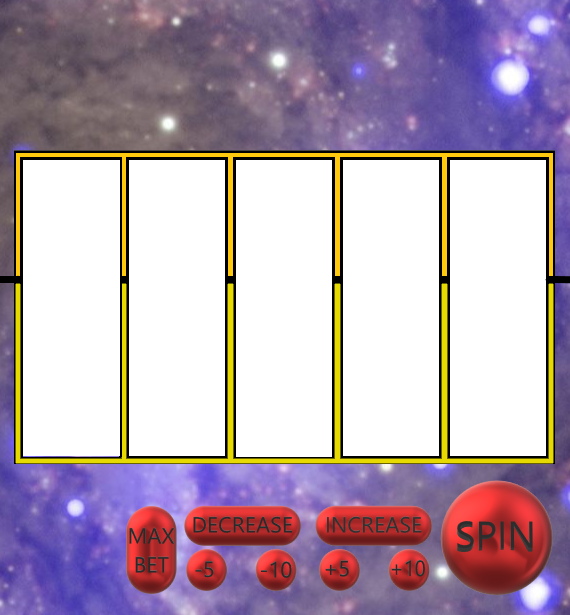
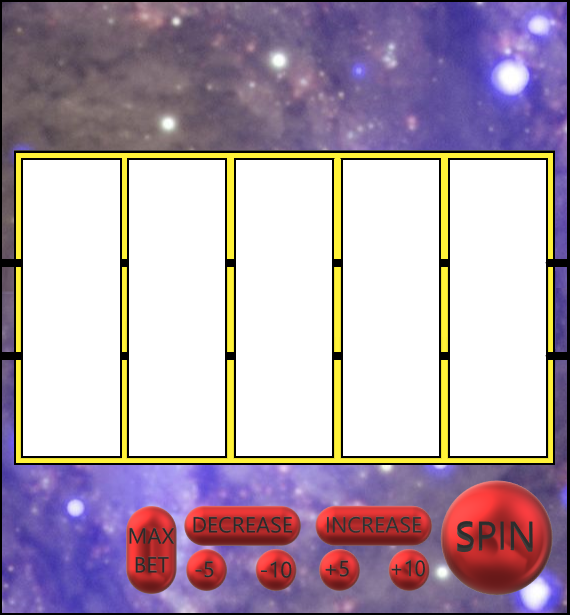
Added second pay line

Changed region(s): [[0.0, 0.0, 1.0, 1.0]]

diff --git a/MainWindow.xaml.cs b/MainWindow.xaml.cs
@@ -15,7 +15,6 @@ using System.Windows.Media.Imaging;
 using System.Windows.Navigation;
 using System.Windows.Shapes;
 using System.Xml.Schema;
-using Random = System.Random;
 
 namespace Slot_Machine
 {
@@ -31,10 +30,9 @@ namespace Slot_Machine
         }
 
         private int total = 0;
-
         public int userCredits = 1000;
-
         public int bet = 10;
+
         //Wheel 1
         public int wheel1val1 = 1;
         public int wheel1val2 = 2;
@@ -61,11 +59,16 @@ namespace Slot_Machine
         public int wheel5Val3 = 3;
         public int wheel5val4 = 4;
         //Win Values
-        public int wheel1;
-        public int wheel2;
-        public int wheel3;
-        public int wheel4;
-        public int wheel5;
+        public int LineOneValOne;
+        public int LineOneValTwo;
+        public int LineOneValThree;
+        public int LineOneValFour;
+        public int LineOneValFive;
+        public int LineTwoValOne;
+        public int LineTwoValTwo;
+        public int LineTwoValThree;
+        public int LineTwoValFour;
+        public int LineTwoValFive;
 
         Random random = new Random();
         public bool spinning = false;
@@ -146,36 +149,73 @@ namespace Slot_Machine
                         }
 
                         total = 0;
-                        wheel1 = wheel1val2;
-                        wheel2 = wheel2val2;
-                        wheel3 = wheel3val2;
-                        wheel4 = wheel4val2;
-                        wheel5 = wheel5val2;
+                        LineOneValOne = wheel1val2;
+                        LineOneValTwo = wheel2val2;
+                        LineOneValThree = wheel3val2;
+                        LineOneValFour = wheel4val2;
+                        LineOneValFive = wheel5val2;
+                        LineTwoValOne = wheel1Val3;
+                        LineTwoValTwo = wheel2Val3;
+                        LineTwoValThree = wheel3Val3;
+                        LineTwoValFour = wheel4Val3;
+                        LineTwoValFive = wheel5Val3;
                     }
 
-                    //Win Table
+                    //Win Table Line 1
                     //Single Win
-                    if (wheel1 == 1) total += 1;
+                    if (LineOneValOne == 1) total += 1;
                     //Double Win
-                    if (wheel1 == 1 && wheel2 == 1) total += 3;
-                    if (wheel1 == 2 && wheel2 == 2) total += 3;
-                    if (wheel1 == 3 && wheel2 == 3) total += 3;
-                    if (wheel1 == 4 && wheel2 == 4) total += 3;
+                    if (LineOneValOne == 1 && LineOneValTwo == 1) total += 3;
+                    if (LineOneValOne == 2 && LineOneValTwo == 2) total += 3;
+                    if (LineOneValOne == 3 && LineOneValTwo == 3) total += 3;
+                    if (LineOneValOne == 4 && LineOneValTwo == 4) total += 3;
                     //Triple Win
-                    if (wheel1 == 1 && wheel2 == 1 && wheel3 == 1) total += 7;
-                    if (wheel1 == 2 && wheel2 == 2 && wheel3 == 2) total += 7;
-                    if (wheel1 == 3 && wheel2 == 3 && wheel3 == 3) total += 7;
-                    if (wheel1 == 4 && wheel2 == 4 && wheel3 == 4) total += 7;
+                    if (LineOneValOne == 1 && LineOneValTwo == 1 && LineOneValThree == 1) total += 7;
+                    if (LineOneValOne == 2 && LineOneValTwo == 2 && LineOneValThree == 2) total += 7;
+                    if (LineOneValOne == 3 && LineOneValTwo == 3 && LineOneValThree == 3) total += 7;
+                    if (LineOneValOne == 4 && LineOneValTwo == 4 && LineOneValThree == 4) total += 7;
                     //Quad Win
-                    if (wheel1 == 1 && wheel2 == 1 && wheel3 == 1 && wheel4 == 1) total += 12;
-                    if (wheel1 == 2 && wheel2 == 2 && wheel3 == 2 && wheel4 == 2) total += 12;
-                    if (wheel1 == 3 && wheel2 == 3 && wheel3 == 3 && wheel4 == 3) total += 12;
-                    if (wheel1 == 4 && wheel2 == 4 && wheel3 == 4 && wheel4 == 4) total += 12;
+                    if (LineOneValOne == 1 && LineOneValTwo == 1 && LineOneValThree == 1 && LineOneValFour == 1) total += 12;
+                    if (LineOneValOne == 2 && LineOneValTwo == 2 && LineOneValThree == 2 && LineOneValFour == 2) total += 12;
+                    if (LineOneValOne == 3 && LineOneValTwo == 3 && LineOneValThree == 3 && LineOneValFour == 3) total += 12;
+                    if (LineOneValOne == 4 && LineOneValTwo == 4 && LineOneValThree == 4 && LineOneValFour == 4) total += 12;
                     //Quint Win
-                    if (wheel1 == 1 && wheel2 == 1 && wheel3 == 1 && wheel4 == 1 && wheel5 == 1) total += 30;
-                    if (wheel1 == 2 && wheel2 == 2 && wheel3 == 2 && wheel4 == 2 && wheel5 == 2) total += 30;
-                    if (wheel1 == 3 && wheel2 == 3 && wheel3 == 3 && wheel4 == 3 && wheel5 == 3) total += 30;
-                    if (wheel1 == 4 && wheel2 == 4 && wheel3 == 4 && wheel4 == 4 && wheel5 == 4) total += 30;
+                    if (LineOneValOne == 1 && LineOneValTwo == 1 && LineOneValThree == 1 && LineOneValFour == 1 && LineOneValFive == 1) total += 30;
+                    if (LineOneValOne == 2 && LineOneValTwo == 2 && LineOneValThree == 2 && LineOneValFour == 2 && LineOneValFive == 2) total += 30;
+                    if (LineOneValOne == 3 && LineOneValTwo == 3 && LineOneValThree == 3 && LineOneValFour == 3 && LineOneValFive == 3) total += 30;
+                    if (LineOneValOne == 4 && LineOneValTwo == 4 && LineOneValThree == 4 && LineOneValFour == 4 && LineOneValFive == 4) total += 30;
+
+                    //Win Table Line 2
+                    //Single Win
+                    if (LineTwoValOne == 1) total += 1;
+                    //Double Win
+                    if (LineTwoValOne == 1 && LineTwoValTwo == 1) total += 3;
+                    if (LineTwoValOne == 2 && LineTwoValTwo == 2) total += 3;
+                    if (LineTwoValOne == 3 && LineTwoValTwo == 3) total += 3;
+                    if (LineTwoValOne == 4 && LineTwoValTwo == 4) total += 3;
+                    //Triple Win
+                    if (LineTwoValOne == 1 && LineTwoValTwo == 1 && LineTwoValThree == 1) total += 7;
+                    if (LineTwoValOne == 2 && LineTwoValTwo == 2 && LineTwoValThree == 2) total += 7;
+                    if (LineTwoValOne == 3 && LineTwoValTwo == 3 && LineTwoValThree == 3) total += 7;
+                    if (LineTwoValOne == 4 && LineTwoValTwo == 4 && LineTwoValThree == 4) total += 7;
+                    //Quad Win
+                    if (LineTwoValOne == 1 && LineTwoValTwo == 1 && LineTwoValThree == 1 && LineTwoValFour == 1) total += 12;
+                    if (LineTwoValOne == 2 && LineTwoValTwo == 2 && LineTwoValThree == 2 && LineTwoValFour == 2) total += 12;
+                    if (LineTwoValOne == 3 && LineTwoValTwo == 3 && LineTwoValThree == 3 && LineTwoValFour == 3) total += 12;
+                    if (LineTwoValOne == 4 && LineTwoValTwo == 4 && LineTwoValThree == 4 && LineTwoValFour == 4) total += 12;
+                    //Quint Win
+                    if (LineTwoValOne == 1 && LineTwoValTwo == 1 && LineTwoValThree == 1 && LineTwoValFour == 1 && LineTwoValFive == 1) total += 30;
+                    if (LineTwoValOne == 2 && LineTwoValTwo == 2 && LineTwoValThree == 2 && LineTwoValFour == 2 && LineTwoValFive == 2) total += 30;
+                    if (LineTwoValOne == 3 && LineTwoValTwo == 3 && LineTwoValThree == 3 && LineTwoValFour == 3 && LineTwoValFive == 3) total += 30;
+                    if (LineTwoValOne == 4 && LineTwoValTwo == 4 && LineTwoValThree == 4 && LineTwoValFour == 4 && LineTwoValFive == 4) total += 30;
+
+                    //Jackpot Win
+                    if (LineTwoValOne == LineTwoValTwo && LineTwoValOne == LineTwoValThree &&
+                        LineTwoValOne == LineTwoValFour && LineTwoValOne == LineTwoValFive &&
+                        LineTwoValOne == LineOneValOne && LineTwoValOne == LineOneValTwo &&
+                        LineTwoValOne == LineOneValThree && LineTwoValOne == LineOneValFour &&
+                        LineTwoValOne == LineOneValFive) total += 1000;
+
 
                     userCredits += total * bet;
                     Win.Text = $"Win: {total * bet}";
@@ -196,7 +236,7 @@ namespace Slot_Machine
             await Spin();
         }
 
-        private async void Decrease_Click(object sender, RoutedEventArgs e)
+        private void Decrease_Click(object sender, RoutedEventArgs e)
         {
             if (spinning == false)
             {

diff --git a/Models/Wheel.cs b/Models/Wheel.cs
@@ -5,19 +5,24 @@ using System.Linq;
 using System.Text;
 using System.Threading.Tasks;
 
+
 namespace Slot_Machine.Models
 {
     public class Wheel
     {
         public int WheelID { get; set; }
-        public int Value1 { get; set; }
-        public int Value2 { get; set; }
-        public int Value3 { get; set; }
-        public int Value4 { get; set; }
+        public int Val1 { get; set; }
+        public int Val2 { get; set; }
+        public int Val3 { get; set; }
+        public int Val4 { get; set; }
 
-        public void Spin(Wheel wheel)
+        public void SpinWheel(int wheel)
         {
-
+            Random random = new Random();
+            Val1 = Val2;
+            Val2 = Val3;
+            Val3 = Val4;
+            Val4 = random.Next(1, 5);
         }
     }
 }
